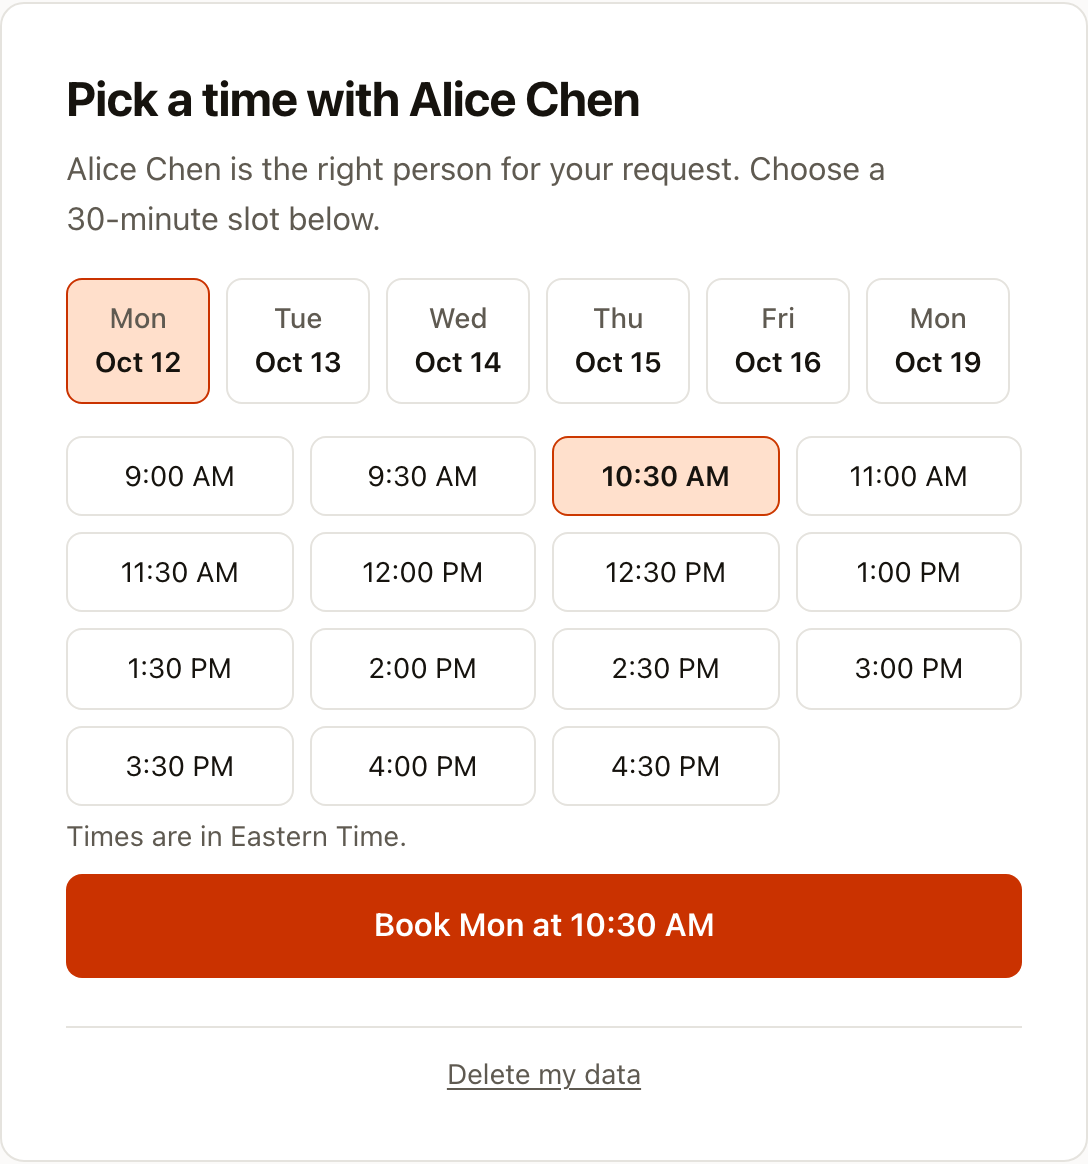
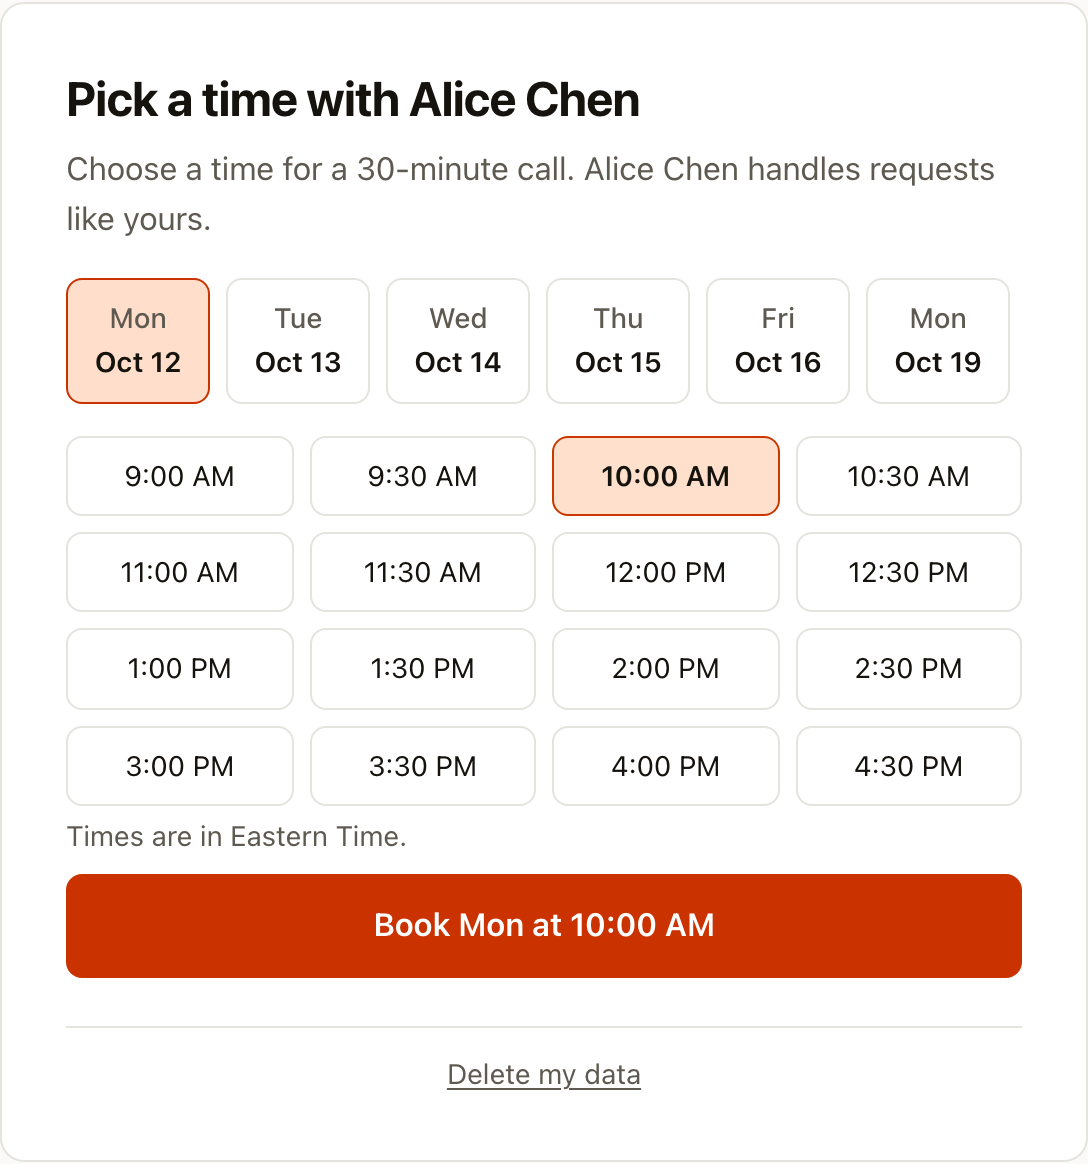
Copy pass: plainer, more specific wording across the README, app, and docs
Applied the copywriting, humanizer, and stop-slop guidelines to every
user-facing string:

- README leads with the concrete outcome ("route each inbound lead to the
  right rep, then let the lead book that rep's calendar on the same page"),
  positions it against per-seat tools, and describes the flow in plain
  sentences instead of bolded inline headers. Two claims were corrected:
  the form turns into the rep's times (it doesn't appear under the form),
  and booking takes a pick and a confirm, not one click.
- Lead pages, admin pages, API errors, emails, and alerts: no em dashes,
  no slogans ("speed to lead wins deals"), active voice ("Switchboard picks
  the rep" rather than "the right rep is picked"), straight quotes, and
  time ranges written as "10:00 AM to 10:30 AM".
- Docs, examples, and templates swept the same way; decisions.md asides
  rewritten as clauses or parentheses.
- Screenshots regenerated with the new copy.

diff --git a/apps/web/src/app/integrations/page.tsx b/apps/web/src/app/integrations/page.tsx
@@ -24,7 +24,7 @@ const ERRORS: Record<string, string> = {
   org_missing: "No organization found. Run the migrations and load your config first.",
   rep_missing: "That rep no longer exists. Refresh the page and try again.",
   state_mismatch:
-    "The connection request expired or didn't match. Nothing was connected — try again.",
+    "The connection request expired or didn't match, so nothing was connected. Try again.",
   denied: "Consent was declined. Nothing was connected.",
   scope_missing:
     "Calendar access was only partly granted. Reconnect and keep both calendar permissions ticked.",
@@ -174,13 +174,13 @@ export default async function IntegrationsPage({
                           {rep.status === "revoked" ? (
                             <>
                               <span className={styles.dotWarn} />
-                              Access was revoked — reconnect to restore live availability
+                              Access was revoked. Reconnect to show live availability again.
                             </>
                           ) : rep.updatedAt ? (
                             <>
                               <span className={otherAccount ? styles.dotWarn : styles.dotOk} />
                               {otherAccount
-                                ? `Connected as ${rep.accountEmail} — check this is the right calendar`
+                                ? `Connected as ${rep.accountEmail}. Check that this is the right calendar.`
                                 : `Connected${rep.accountEmail ? ` as ${rep.accountEmail}` : ""}`}
                             </>
                           ) : (
@@ -224,7 +224,7 @@ export default async function IntegrationsPage({
             {googleReady ? (
               <p className={styles.footnote}>
                 Send each rep their connect link (valid for 7 days) so they can sign in with
-                their own Google account. Use “Connect here” only when the rep is at this
+                their own Google account. Use Connect here only when the rep is at this
                 computer.
               </p>
             ) : null}
@@ -243,7 +243,7 @@ export default async function IntegrationsPage({
               {hubspot?.status === "revoked" ? (
                 <>
                   <span className={styles.dotWarn} />
-                  Access was revoked — reconnect HubSpot
+                  Access was revoked. Reconnect HubSpot.
                 </>
               ) : hubspot ? (
                 <>

diff --git a/apps/web/src/app/f/[slug]/FormView.tsx b/apps/web/src/app/f/[slug]/FormView.tsx
@@ -275,8 +275,8 @@ function Outcome({
       <>
         <h1 className={styles.cardTitle}>You can get started right away</h1>
         <p className={styles.cardBody}>
-          Thanks for reaching out. The quickest way in is to set things up yourself — it only
-          takes a few minutes.
+          Thanks for reaching out. You can set things up yourself on the next page, without
+          waiting for a call.
         </p>
         <a className={styles.linkButton} href={settings.selfServeUrl} target="_top">
           Get started
@@ -287,7 +287,7 @@ function Outcome({
   const who = result.repName ?? `Someone from ${orgName}`;
   return (
     <>
-      <h1 className={styles.cardTitle}>Thanks — we&apos;ve got your request</h1>
+      <h1 className={styles.cardTitle}>Thanks, we have your request</h1>
       <p className={styles.cardBody}>
         {who} will be in touch
         {result.email ? (
@@ -467,7 +467,7 @@ function BookingPanel({
         <div className={styles.summary}>
           <p className={styles.summaryWhen}>{formatLongDay(b.startAt)}</p>
           <p>
-            {formatTime(b.startAt)} – {formatTime(b.endAt)} · {friendlyZone(zone)}
+            {formatTime(b.startAt)} to {formatTime(b.endAt)}, {friendlyZone(zone)}
           </p>
         </div>
         {b.meetLink ? (
@@ -491,8 +491,8 @@ function BookingPanel({
     <>
       <h1 className={styles.cardTitle}>Pick a time with {repName}</h1>
       <p className={styles.cardBody}>
-        {repName} is the right person for your request. Choose a {MEETING_MINUTES}‑minute slot
-        below.
+        Choose a time for a {MEETING_MINUTES}‑minute call. {repName} handles requests like
+        yours.
       </p>
 
       {loading ? (
@@ -524,8 +524,8 @@ function BookingPanel({
         <>
           {availability?.degraded ? (
             <p className={styles.notice}>
-              We couldn&apos;t check {repName}&apos;s live calendar just now. If a time turns
-              out to clash, they&apos;ll suggest another.
+              We couldn&apos;t reach {repName}&apos;s calendar. If the time you pick clashes with
+              something, they&apos;ll suggest another.
             </p>
           ) : null}
           {bookingError ? (

diff --git a/apps/web/src/app/page.tsx b/apps/web/src/app/page.tsx
@@ -9,15 +9,15 @@ export const dynamic = "force-dynamic";
 const STEPS = [
   {
     title: "Qualify",
-    body: "A lead fills in your form. Rules you keep in git decide where they go, using form answers and your CRM.",
+    body: "A lead fills in your form. Rules you keep in git read the answers and your CRM and decide who should talk to them.",
   },
   {
     title: "Route",
-    body: "The right rep is picked in milliseconds — existing owner, team round robin with weights, capacity, and time off.",
+    body: "Switchboard picks the rep in milliseconds: the account owner if there is one, otherwise the next rep on the team, by weight.",
   },
   {
     title: "Book",
-    body: "That rep's real availability appears on the same page. One click, and the meeting is on their calendar.",
+    body: "The lead sees that rep's open times on the same page and books one. The meeting goes onto the rep's calendar with a Meet link.",
   },
 ];
 
@@ -47,13 +47,14 @@ export default async function Home() {
         <p className={styles.brand}>Switchboard</p>
         <h1 className={styles.title}>Inbound routing that ends in a booked meeting.</h1>
         <p className={styles.lede}>
-          Qualify a form submission, route it to the right rep, and let the lead book on that
-          rep&apos;s calendar before they leave the page. Open source and self-hosted.
+          Switchboard sends each form submission to the right rep and lets the lead book a
+          time on that rep&apos;s calendar before leaving the page. It&apos;s open source and
+          runs on your own servers.
         </p>
         <div className={styles.actions}>
           {form ? (
             <a className={styles.primary} href={`/f/${form.slug}`}>
-              Try “{form.name}”
+              Try the &quot;{form.name}&quot; form
             </a>
           ) : null}
           <a className={styles.secondary} href="/routing-log">

diff --git a/apps/web/src/lib/email.ts b/apps/web/src/lib/email.ts
@@ -101,24 +101,24 @@ export function buildConfirmationEmail(input: ConfirmationEmailInput): {
   } else {
     lines.push(
       "",
-      "We could not create the calendar event automatically, so the meeting is not on a calendar yet.",
+      "We couldn't add this meeting to the calendar, so no invite went out.",
     );
     if (input.fallbackUrl) {
       lines.push(`You can pick another time here: ${input.fallbackUrl}`);
     }
     lines.push(
-      `Or simply reply to this email and ${input.repName} will set it up with you.`,
+      `Or reply to this email and ${input.repName} will set it up with you.`,
     );
   }
   lines.push(
     "",
-    `Questions? Reply to ${input.repName} at ${input.repEmail}.`,
+    `Questions? Write to ${input.repName} at ${input.repEmail}.`,
     "",
-    `— ${input.orgName}`,
+    input.orgName,
   );
 
   return {
-    subject: `Confirmed: meeting with ${input.repName} — ${whenSubject}`,
+    subject: `Confirmed: meeting with ${input.repName}, ${whenSubject}`,
     text: lines.join("\n"),
   };
 }
@@ -149,7 +149,7 @@ export async function sendEmail(
 ): Promise<boolean> {
   const url = process.env.SMTP_URL;
   if (!url) {
-    log.warn(`SMTP_URL is not set — ${context} skipped.`);
+    log.warn(`SMTP_URL is not set, so the ${context} was skipped.`);
     return false;
   }
   try {

diff --git a/apps/web/src/app/routing-log/page.tsx b/apps/web/src/app/routing-log/page.tsx
@@ -99,13 +99,13 @@ export default async function RoutingLogPage({
 
           <p className={styles.count}>
             {entries.length} decision{entries.length === 1 ? "" : "s"}, newest first
-            {q ? ` matching “${q}”` : ""}.
+            {q ? ` matching "${q}"` : ""}.
           </p>
 
           {entries.length === 0 ? (
             <p className={styles.empty}>
               {q ? (
-                `No decisions match “${q}”.`
+                `No decisions match "${q}".`
               ) : (
                 <>
                   No routing decisions yet. Submit one of your forms (try{" "}
@@ -143,7 +143,7 @@ export default async function RoutingLogPage({
                       </td>
                       <td>
                         {entry.repName ?? entry.teamName ?? (
-                          <span className={styles.muted}>—</span>
+                          <span className={styles.muted}>None</span>
                         )}
                       </td>
                       <td className={styles.mono}>{entry.latencyMs} ms</td>

diff --git a/apps/web/test/email.test.ts b/apps/web/test/email.test.ts
@@ -47,7 +47,7 @@ describe("buildConfirmationEmail", () => {
       meetLink: null,
       fallbackUrl: "https://cal.example.com/alice",
     });
-    expect(text).toContain("could not create the calendar event");
+    expect(text).toContain("couldn't add this meeting to the calendar");
     expect(text).toContain("https://cal.example.com/alice");
   });
 
@@ -57,7 +57,7 @@ describe("buildConfirmationEmail", () => {
       meetLink: null,
       fallbackUrl: null,
     });
-    expect(text).toContain("could not create the calendar event");
+    expect(text).toContain("couldn't add this meeting to the calendar");
     expect(text).toContain("reply to this email");
   });
 });
@@ -73,7 +73,7 @@ describe("sendConfirmationEmail", () => {
     });
     expect(sent).toBe(false);
     expect(warn).toHaveBeenCalledWith(
-      expect.stringContaining("SMTP_URL is not set — confirmation email skipped."),
+      expect.stringContaining("SMTP_URL is not set, so the confirmation email was skipped."),
     );
   });
 

diff --git a/apps/web/src/lib/alerts.ts b/apps/web/src/lib/alerts.ts
@@ -61,11 +61,11 @@ export function buildSpeedToLeadAlert(input: SpeedToLeadAlertInput): {
       "",
       `Reference: ${input.submissionId}`,
       "",
-      "Reach out soon — speed to lead wins deals.",
+      "Reach out while the request is fresh.",
       "",
-      "— Switchboard",
+      "Switchboard",
     ].join("\n"),
-    slackText: `:hourglass: *Speed-to-lead* — ${escapeSlack(body)} Rep: ${escapeSlack(input.repName)}. Reference: ${input.submissionId}`,
+    slackText: `:hourglass: *Speed-to-lead:* ${escapeSlack(body)} Rep: ${escapeSlack(input.repName)}. Reference: ${input.submissionId}`,
   };
 }
 

diff --git a/apps/web/src/app/login/page.tsx b/apps/web/src/app/login/page.tsx
@@ -47,7 +47,7 @@ export default async function LoginPage({
               Admin sign-in isn&apos;t set up. Set <code className={styles.code}>ADMIN_EMAIL</code>,{" "}
               <code className={styles.code}>ADMIN_PASSWORD</code>, and{" "}
               <code className={styles.code}>AUTH_SECRET</code>, then restart. With Docker these
-              are generated for you — the password is in the first startup log.
+              are generated on first start, and the password is printed in the startup log.
             </p>
           ) : (
             <form action={login} className={styles.stack}>

diff --git a/apps/web/src/app/f/[slug]/delete/page.tsx b/apps/web/src/app/f/[slug]/delete/page.tsx
@@ -47,7 +47,7 @@ export default async function ConfirmDeletionPage({
     body = "Deletion links work for 24 hours. Request a new one from the form page.";
   } else {
     title = "Delete your data?";
-    body = `This erases everything ${request.email} submitted${form ? ` through “${form.name}”` : ""}, including any booked meeting on our side. It can't be undone.`;
+    body = `This erases everything ${request.email} submitted${form ? ` through "${form.name}"` : ""}, including any booked meeting on our side. It can't be undone.`;
     showButton = true;
   }
 

diff --git a/apps/web/src/app/error.tsx b/apps/web/src/app/error.tsx
@@ -9,7 +9,7 @@ export default function ErrorPage({ reset }: { error: Error; reset: () => void }
       <section className={styles.card}>
         <h1 className={styles.cardTitle}>Something went wrong</h1>
         <p className={styles.cardBody}>
-          We couldn&apos;t load this page. It&apos;s usually temporary — try again in a moment.
+          We couldn&apos;t load this page. This is usually temporary. Try again in a moment.
         </p>
         <button type="button" className={styles.button} onClick={() => reset()}>
           Try again

diff --git a/e2e/booking.spec.ts b/e2e/booking.spec.ts
@@ -37,7 +37,7 @@ test("a qualified lead picks a time and books it on the same page", async ({ pag
 
   await expect(page.getByText("Booked")).toBeVisible();
   await expect(page.getByRole("heading", { name: /You're meeting/ })).toBeVisible();
-  await expect(page.getByText(new RegExp(`${time} –`))).toBeVisible();
+  await expect(page.getByText(new RegExp(`${time} to`))).toBeVisible();
 });
 
 test("a personal-email lead is sent to self-serve", async ({ page }) => {

diff --git a/apps/web/src/app/api/bookings/route.ts b/apps/web/src/app/api/bookings/route.ts
@@ -16,7 +16,7 @@ export async function POST(request: Request) {
   const limit = checkRateLimit("booking", clientIp(request));
   if (!limit.allowed) {
     return tooManyRequests(limit.retryAfterSeconds, {
-      error: "Too many booking attempts — please try again shortly.",
+      error: "Too many booking attempts. Try again in a few minutes.",
     });
   }
   const parsed = parseBookingInput(await readJsonBody(request));
